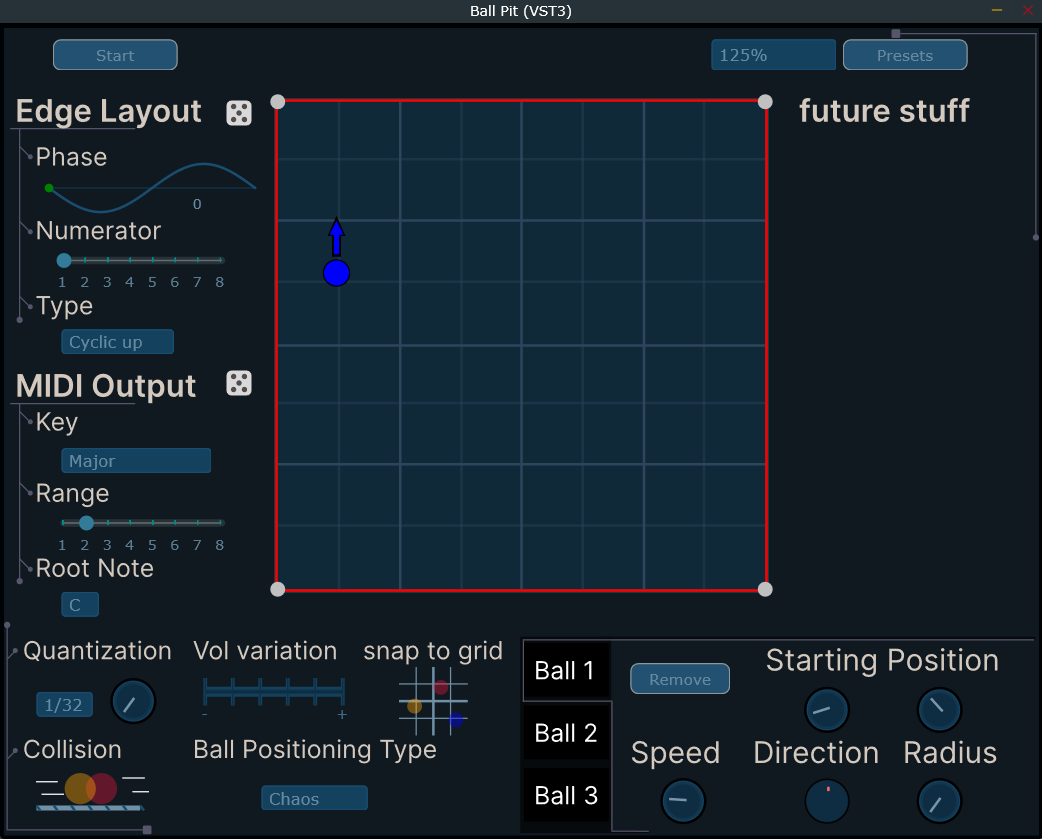
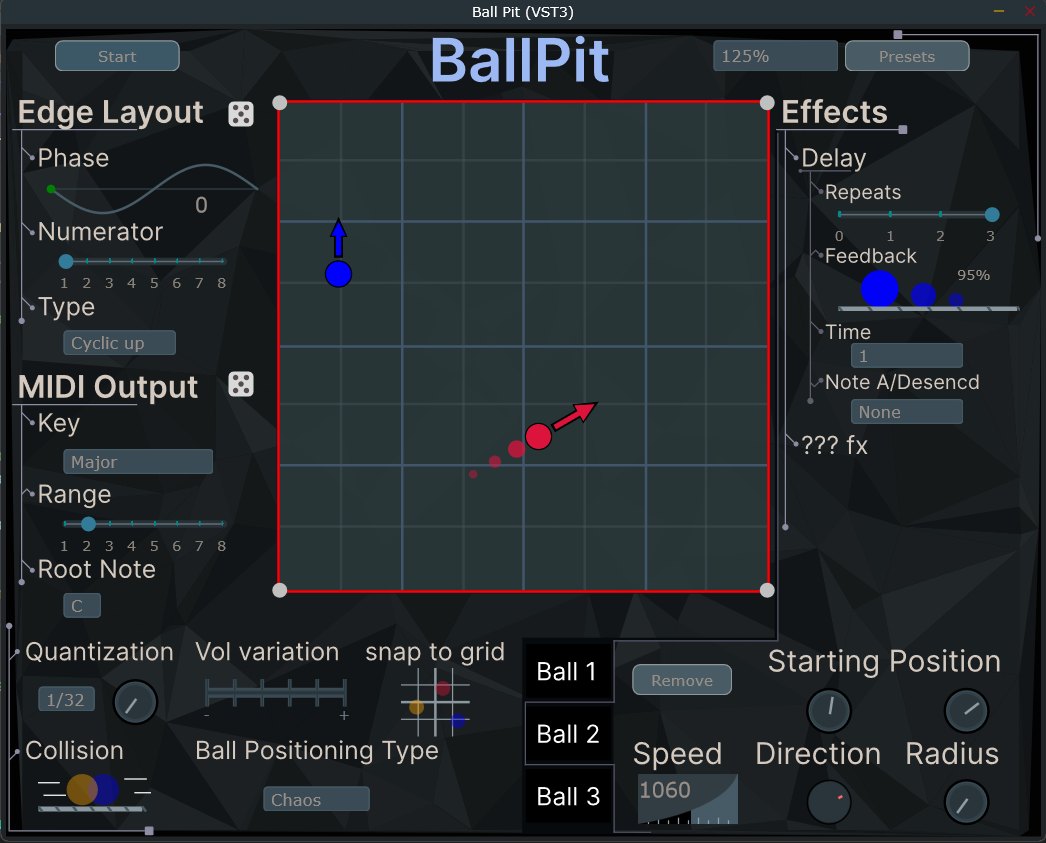
finished adding delay, need to do another fx

diff --git a/Source/EdgeEventListener.h b/Source/EdgeEventListener.h
@@ -15,17 +15,40 @@
 class EdgeEventListener 
 {
 public:
-	virtual void onEdgeHit(int note, int noteVelocity, double sampleRate, int delayInstances = 0, double delayRate = 0.0) = 0;
+	virtual void onEdgeHit(int note, int noteVelocity, double sampleRate, int delayInstances = 0, double delayRate = 0.0, float delayFeedback = 0.0f, int delayNoteMovement = 0) = 0;
 	virtual void onBallsColide(int notes[3], double sampleRate) = 0;
 };
 
+
+static int getNoteFromBallIndex(int ballIndex, int baseNote = 60, int noteMovement = 0)
+{
+	switch (noteMovement)
+	{
+		case 0: // no movement
+			return baseNote;
+		case 2: // up
+			return baseNote + ballIndex;
+		case 3: // down
+			return baseNote - ballIndex;
+		case 4: // up and down
+			return (ballIndex % 2 == 0) ? (baseNote + (ballIndex / 2)) : (baseNote - (ballIndex / 2 + 1));
+		case 5: // down and up
+			return (ballIndex % 2 == 0) ? (baseNote - (ballIndex / 2)) : (baseNote + (ballIndex / 2 + 1));
+		case 6: // Random
+			return baseNote + (rand() % 12) - 6; // Randomly between -6 and +5 semitones
+		default: // no movement
+			return baseNote;
+	}
+
+	return baseNote; // Default case, no movement
+}
 
 class BallEdgeEventListener : public EdgeEventListener 
 {
 public:
 	BallEdgeEventListener(juce::MidiBuffer& midiBuffer) : midiBuffer(midiBuffer) {}
 
-	void onEdgeHit(int note, int noteVelocity, double sampleRate, int delayInstances, double delayRate) override
+	void onEdgeHit(int note, int noteVelocity, double sampleRate, int delayInstances, double delayRate, float delayFeedback, int delayNoteMovement) override
 	{
 		juce::MidiMessage noteOn = juce::MidiMessage::noteOn(1, note, (juce::uint8)noteVelocity);
 		midiBuffer.addEvent(noteOn, 0);
@@ -35,8 +58,10 @@ public:
 			for (int i = 1; i <= delayInstances; ++i)
 			{
 				double delayTime = i * delayRate * sampleRate;
-				juce::MidiMessage delayedNoteOn = noteOn.withTimeStamp(delayTime);
-				midiBuffer.addEvent(delayedNoteOn, 0);
+				float delaySizeRatio = pow(0.8f, i);
+				noteOn = juce::MidiMessage::noteOn(1, getNoteFromBallIndex(i, note, delayNoteMovement),
+												  (juce::uint8)(delayFeedback * noteVelocity * delaySizeRatio));
+				midiBuffer.addEvent(noteOn, delayTime);
 			}
 		}
 	}
@@ -57,7 +82,7 @@ class BallCollideEventListener : public EdgeEventListener
 public:
 	BallCollideEventListener(juce::MidiBuffer& midiBuffer) : midiBuffer(midiBuffer) {}
 
-	void onEdgeHit(int note, int noteVelocity, double sampleRate, int delayInstances, double delayRate) override
+	void onEdgeHit(int note, int noteVelocity, double sampleRate, int delayInstances, double delayRate, float delayFeedback, int delayNoteMovement) override
 	{
 		return;
 	}

diff --git a/Source/PluginEditor.cpp b/Source/PluginEditor.cpp
@@ -492,8 +492,11 @@ void BallPitAudioProcessorEditor::initiateComponents()
 		// Delay Note Movement ComboBox
 		ballEffectsSlidersAndAttachments[i].delayNoteMovementComboBox.setBounds(DELAY_NOTE_MOVEMENT_COMBOBOX_BOUNDS);
 		ballEffectsSlidersAndAttachments[i].delayNoteMovementComboBox.addItem("None", DELAY_NOTE_MOVEMENT_NONE);
-		ballEffectsSlidersAndAttachments[i].delayNoteMovementComboBox.addItem("Ascending", DELAY_NOTE_MOVEMENT_UP);
-		ballEffectsSlidersAndAttachments[i].delayNoteMovementComboBox.addItem("Descending", DELAY_NOTE_MOVEMENT_DOWN);
+		ballEffectsSlidersAndAttachments[i].delayNoteMovementComboBox.addItem("Up", DELAY_NOTE_MOVEMENT_UP);
+		ballEffectsSlidersAndAttachments[i].delayNoteMovementComboBox.addItem("Down", DELAY_NOTE_MOVEMENT_DOWN);
+		ballEffectsSlidersAndAttachments[i].delayNoteMovementComboBox.addItem("Up and Down", DELAY_NOTE_MOVEMENT_UP_DOWN);
+		ballEffectsSlidersAndAttachments[i].delayNoteMovementComboBox.addItem("Down and Up", DELAY_NOTE_MOVEMENT_DOWN_UP);
+		ballEffectsSlidersAndAttachments[i].delayNoteMovementComboBox.addItem("Random", DELAY_NOTE_MOVEMENT_RANDOM);
 		ballEffectsSlidersAndAttachments[i].delayNoteMovementComboBox.setSelectedId(1, juce::dontSendNotification);
 		ballEffectsSlidersAndAttachments[i].delayNoteMovementComboBox.setColour(juce::ComboBox::textColourId, BUTTON_TEXT_COLOUR);
 		ballEffectsSlidersAndAttachments[i].delayNoteMovementComboBox.setLookAndFeel(&this->m_costumeComboBoxLAF);

diff --git a/Source/Ball.cpp b/Source/Ball.cpp
@@ -368,7 +368,8 @@ void Ball::edgeBounce()
 			if ((this->isMoving) && (speedX != NO_SPEED))
 			{
 				int noteVelocity = (int)(60 + (60 * (this->radius / 25)));
-				this->edgeListener->onEdgeHit(abstractedEdgeDuplicate[edgeIndex], noteVelocity, sampleRate, this->delaySettings.delayAmount, this->delaySettings.delayRate);
+				this->edgeListener->onEdgeHit(abstractedEdgeDuplicate[edgeIndex], noteVelocity, sampleRate, this->delaySettings.delayAmount,
+											  this->delaySettings.delayRate, this->delaySettings.delayFeedback, this->delaySettings.delayNoteMovement);
 			}
 		}
 	}
@@ -399,7 +400,8 @@ void Ball::edgeBounce()
 			if ((this->isMoving) && (speedY != NO_SPEED))
 			{
 				int noteVelocity = (int)(60 + (60 * (this->radius / 25)));
-				this->edgeListener->onEdgeHit(abstractedEdgeDuplicate[edgeIndex], noteVelocity, sampleRate, this->delaySettings.delayAmount, this->delaySettings.delayRate);
+				this->edgeListener->onEdgeHit(abstractedEdgeDuplicate[edgeIndex], noteVelocity, sampleRate, this->delaySettings.delayAmount,
+											  this->delaySettings.delayRate, this->delaySettings.delayFeedback, this->delaySettings.delayNoteMovement);
 			}
 		}
 	}

diff --git a/Source/PluginProcessor.cpp b/Source/PluginProcessor.cpp
@@ -483,7 +483,7 @@ void BallPitAudioProcessor::processBlock(juce::AudioBuffer<float>& buffer, juce:
 		}
 		else
 		{
-			finalSamplePos = finalSamplePos = m_samplesPerBlock;
+			finalSamplePos = finalSamplePos - m_samplesPerBlock;
 			pendingEvents.push_back({ msg, finalSamplePos });
 		}
 
@@ -591,7 +591,7 @@ juce::StringArray getDelayRateTypes()
 
 juce::StringArray getDelayNoteMovementTypes()
 {
-	return { "None", "Ascending", "Descending" };
+	return { "None", "Up", "Down", "Up and Down", "Down and Up", "Random" };
 }
 
 juce::AudioProcessorValueTreeState::ParameterLayout BallPitAudioProcessor::createParameters()

diff --git a/Source/Configs.h b/Source/Configs.h
@@ -334,4 +334,7 @@
 #define DELAY_NOTE_MOVEMENT_NONE 1
 #define DELAY_NOTE_MOVEMENT_UP 2
 #define DELAY_NOTE_MOVEMENT_DOWN 3
+#define DELAY_NOTE_MOVEMENT_UP_DOWN 4
+#define DELAY_NOTE_MOVEMENT_DOWN_UP 5
+#define DELAY_NOTE_MOVEMENT_RANDOM 6
 #define DELAY_NOTE_MOVEMENT_DEFAULT DELAY_NOTE_MOVEMENT_NONE

diff --git a/Source/Ball.h b/Source/Ball.h
@@ -19,7 +19,7 @@ typedef struct DelaySettings
 	int delayAmount = 0;
 	float delayFeedback = 0.0f;
 	float delayRate = 0.0f;
-	int delayType = 0;
+	int delayNoteMovement = 0;
 };
 
 
